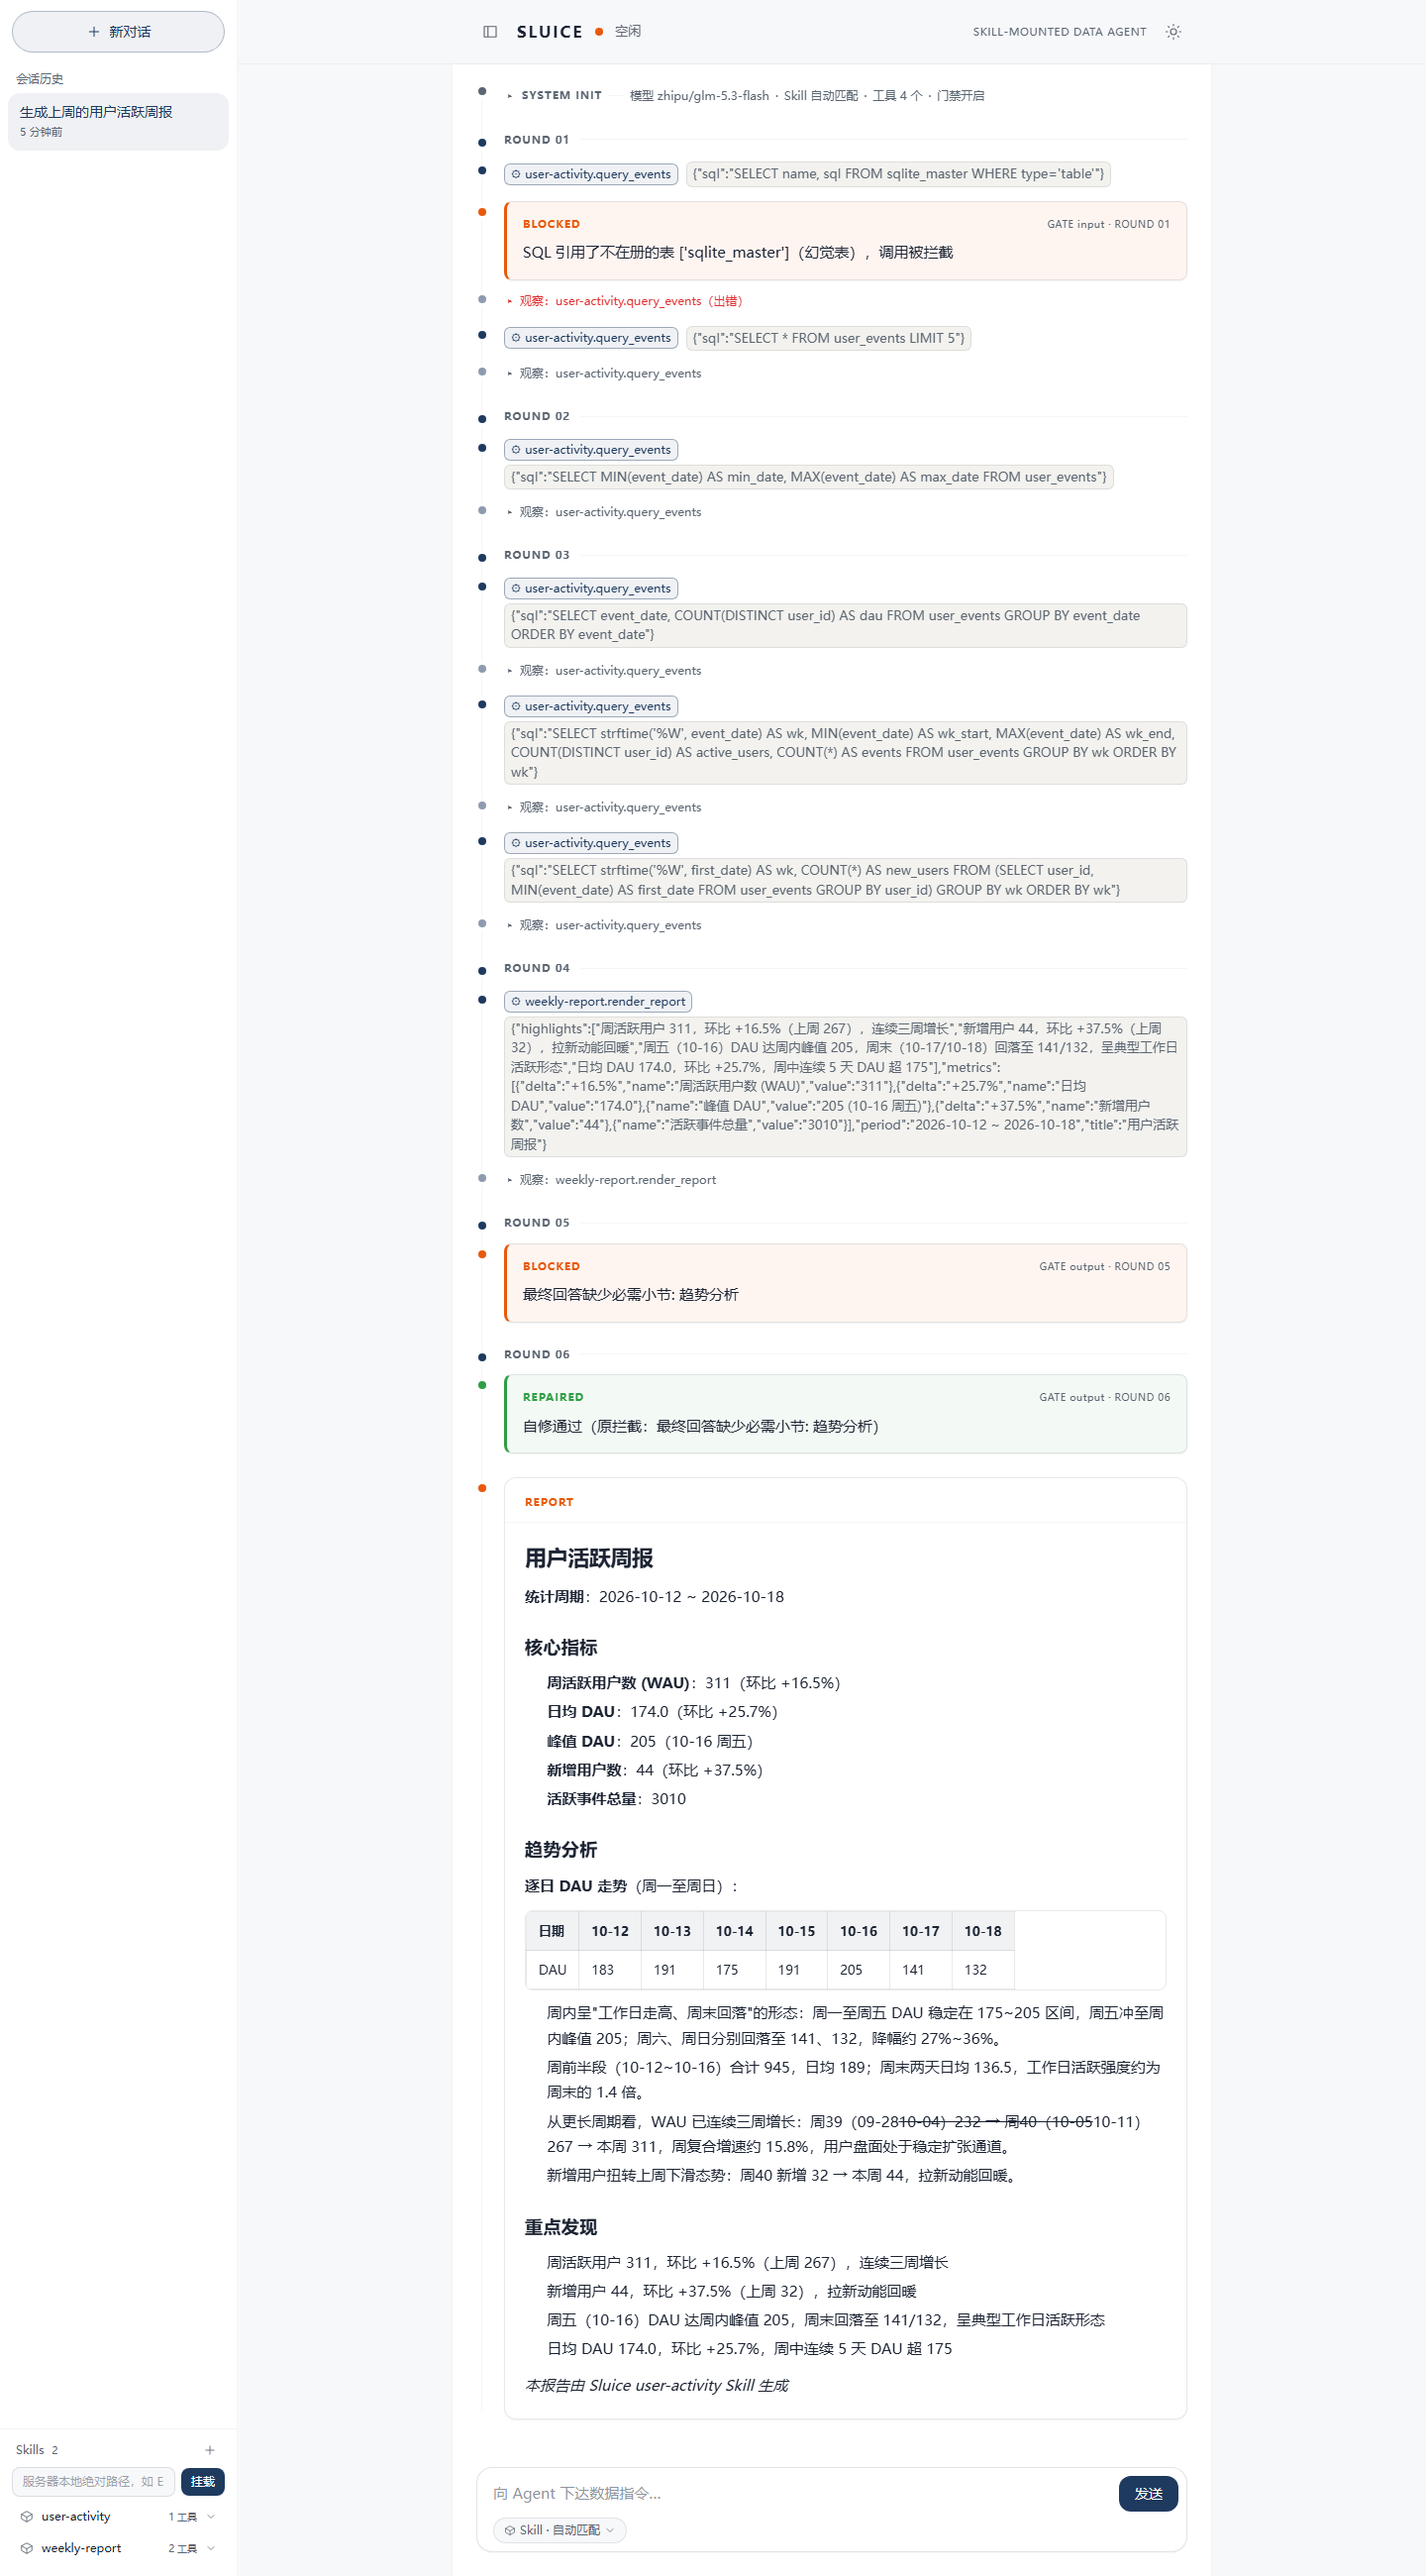
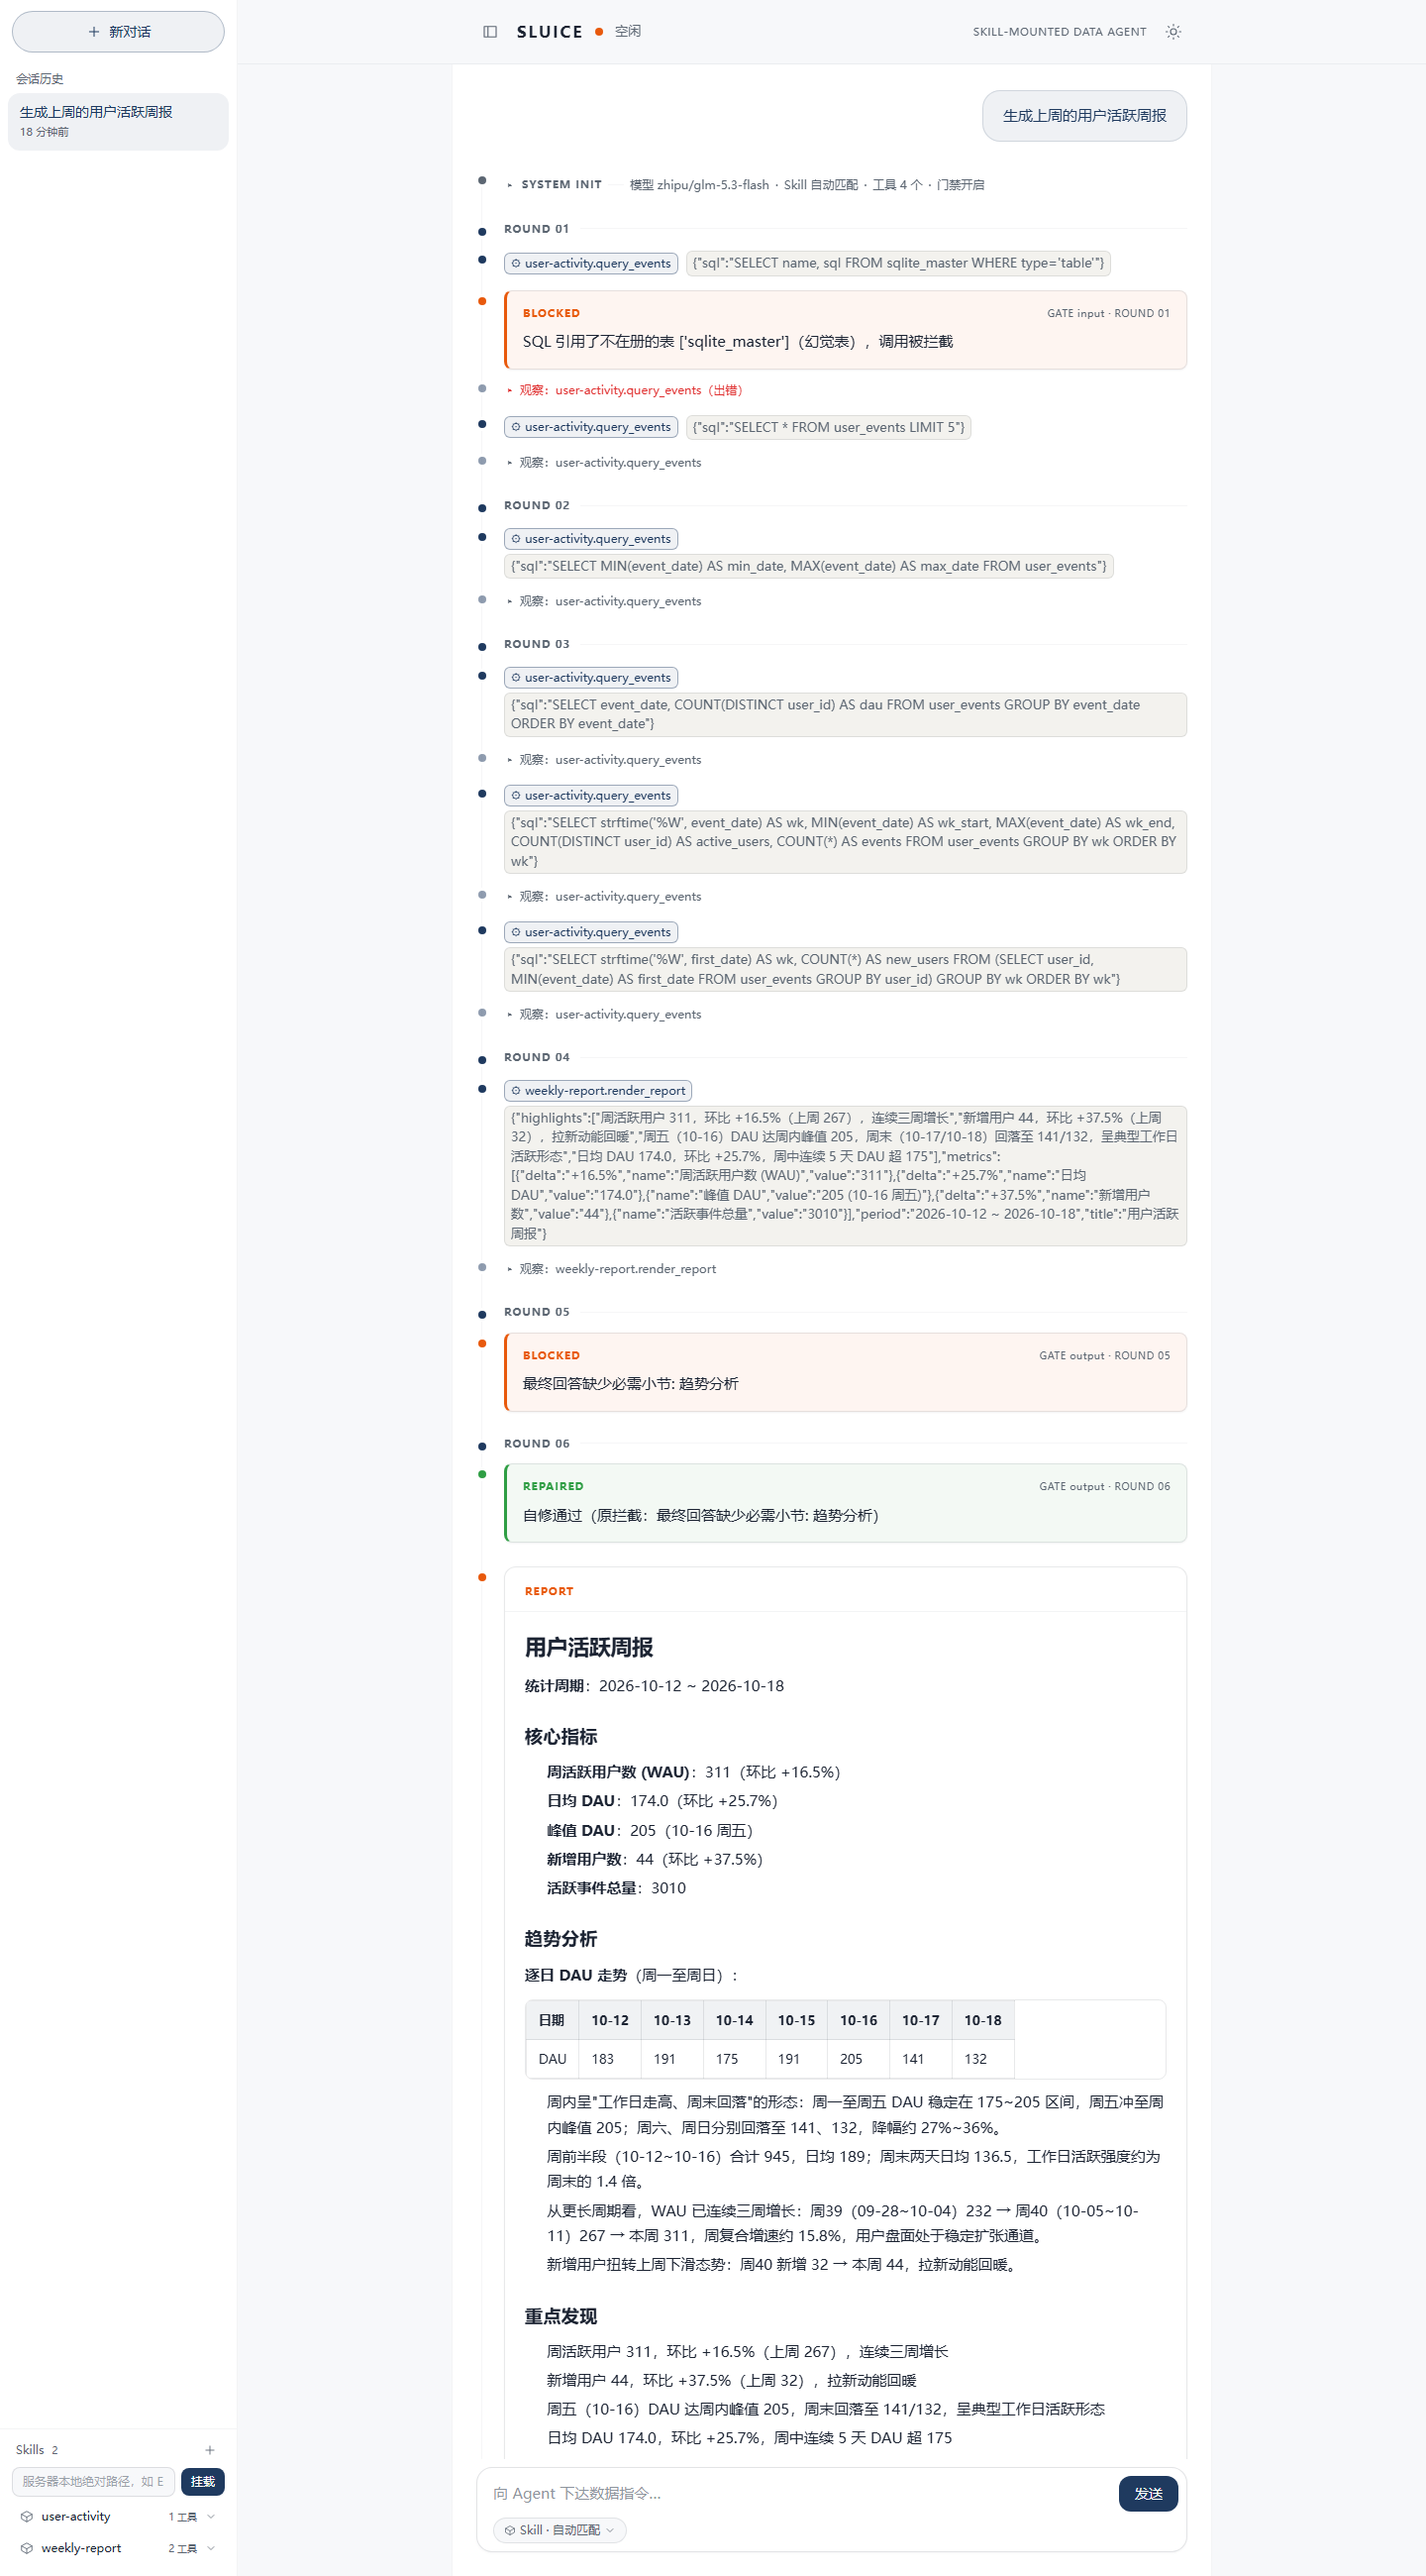
fix: REPORT卡markdown渲染前转义波浪号——GFM把日期区间的成对~解析为删除线划掉半段周报正文,渲染层统一转义;README首屏图同步更新

Changed region(s): [[0.3438, 0.0312, 0.8125, 0.9658]]

diff --git a/web/frontend/src/App.jsx b/web/frontend/src/App.jsx
@@ -812,7 +812,7 @@ export default function App() {
                             </div>
                             <div className="report-md px-5 py-5">
                               <ReactMarkdown remarkPlugins={[remarkGfm]}>
-                                {m.answer}
+                                {m.answer.replace(/~/g, "\\~")}
                               </ReactMarkdown>
                             </div>
                           </div>
